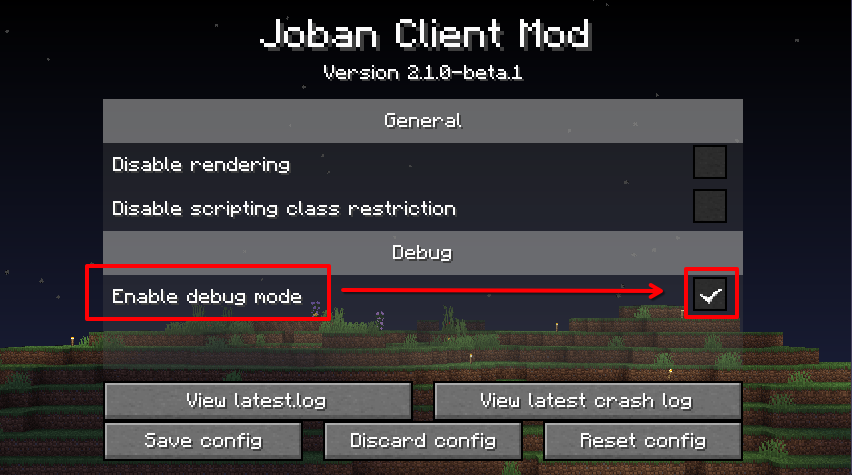
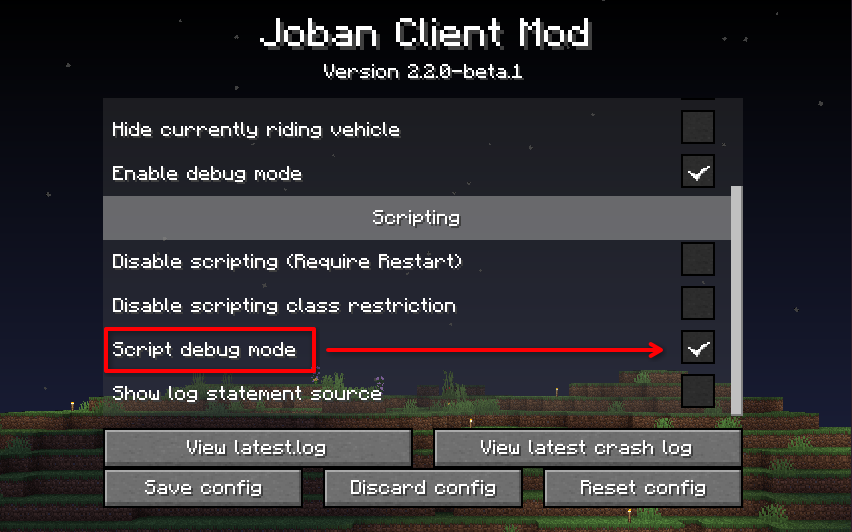
even more docs (im still tired)

diff --git a/docs/stylesheets/custom-layout.css b/docs/stylesheets/custom-layout.css
@@ -69,3 +69,7 @@
   line-height: 1;
   content: attr(data-count);
 }
+
+article a {
+    text-decoration: underline;
+}

diff --git a/docs/dev/scripting/articles/nte_migration.md b/docs/dev/scripting/articles/nte_migration.md
@@ -1,25 +1,41 @@
 ## Background
-The **[Nemo Transit Expansion](https://modrinth.com/mod/mtr-nte)** is an addon mod for the Minecraft Transit Railway 3.x version, which adds high performance OBJ rendering as well as scripting ability. While the former is merged into MTR 4.x, the latter is not. The scripting ability in JCM *can be considered* as the successor to NTE's scripting ability, inheriting the same script engine (Rhino) and design paradigm for it's API.
+The **[Nemo Transit Expansion](https://modrinth.com/mod/mtr-nte)** is an addon mod for the Minecraft Transit Railway 3.x version, which adds high performance OBJ rendering as well as JS scripting for trains and decoration object. While the former feature is merged into MTR 4.x, the scripting feature remained a gap in MTR 4.
 
-The end goal is for the scripting feature to be made available for MTR 4's Vehicle and Eyecandy, while allowing other form of scripting to added by addon mods.
+JCM Scripting is an attempt at re-implementing the NTE scripting functionality, inheriting the same script engine (Rhino) and design paradigm for it's API.
 
-## Note on backward compatibility
-!!! warning "Important!"
+## Backward compatibility policy with NTE
+!!! warning inline end "Important!"
     This policy does not apply to any NTE derivative fork, such as ANTE (Aphrodite's Nemo's Transit Expansion).  
     For ANTE specifically, see [Migrating from ANTE](#migrating-from-ante)
 
 Backward compatibility with NTE scripts are made on a best-effort basis, in the sense that we won't go out of our way to intentionally break existing scripts, and we will add stub/redirect methods to retain existing script compatibility. However if a major redesign has occured for reasons outside of our variable (e.g. Internal workings of MTR 4), we are not able to provide full backward compatibility for scripts.
 
-## General (All types of scripting)
-### Registrations
-- Both `mtr_custom_resources.json` and `mtr_custom_resources_pending_migration.json` will be parsed for scripts. (In both MTR 3/MTR 4 format)
-- Eyecandy scripts registered in NTE format are also automatically parsed.
+## Compatibility Overview
+### Registration
+- Both `mtr_custom_resources.json` and `mtr_custom_resources_pending_migration.json`, in both MTR 3 and MTR 4 format is supported.
+- Eyecandy scripts registered in the old NTE format are also supported.
+### API
+- Most if not all functions/methods provided by NTE should continue working as-is.
+    - Known Exception: `VehicleScriptContext.drawConnModel` / `VehicleScriptContext.drawConnStretchTexture` has not been re-added yet due to low demand.
+- `DisplayHelper` is implemented, most DisplayHelper scripts should work out of the box without any issue.
+- `DynamicModelHolder` is implemented.
+- Partial misc. functions from ANTE has been added, though without backward compatibility. (New API)
+- **(Important!)** Code accessing MTR 3's internal code may break. (e.g. Most common one being `route.lightRailRouteNumber` not being in MTR 4 anymore, causing instances of "undefined" in route displays.)
+### Give me some statistics...
+!!! note inline end "Take this with a grain of salt"
+    - Test conducted in Apr 2026, before the first beta release of JCM v2.2.
+    - Only versions with NTE Scripting are picked for the test, even if an updated version for MTR 4 is available.
+    - Content enlisted in MTR Content DB is not representative of the work of the wider MTR community, who may choose to publish their work in other platform.
+    - To prevent non-faithful comparisons between packs, the tested packs will not be listed out.
 
-### DisplayHelper
-Backward compatibility for DisplayHelper (`mtrsteamloco:scripts/display_helper.js`) has been added, and should just work out of the box without any changes.
+- **23** NTE (non-ANTE) packs from [MTR Content DB](https://addons.minecrafttransitrailway.com/) were tested against JCM Scripting, with the pack being unmodified.
+    - **8 (~34%)** packs are able to work without any issue.
+    - **6 (~26%)** packs are able to function, with minor issues. (Such as light rail route not showing)
+    - **5 (~22%)** packs errored out during execution, requiring some level of migration by script developers.
+    - **2 (~8%)** packs are heavily reliant on MTR 3's feature.
+    - **2 (~8%)** packs are unloadable in MTR 4, thus scripting functionalities cannot be tested.
 
-## Eyecandy Migration
-### Feasibility of migrating
+## Migration Checklist
 Before continuing with the migration process, it is important to understand whether your script will have any chance of migrating to MTR 4 in the first place.
 
 Listed below are several situations in which it may become a potential roadblocker to migrate your script to MTR 4.  
@@ -47,7 +63,7 @@ If you managed to get pass all questions, it likely means that your script have 
 
 ??? note "My script utilize advanced model processing techniques (RawMeshBuilder / MaterialProperties / VertArrays etc.)"
     - Unfortunately these features aren't available in JCM at the moment.  
-    RawMeshBuilder may become available in the future, however there is no plan for other classes. Please try working around them with the existing NTE model API.
+    RawMeshBuilder may become available in the future, however there is no plan for other deeper classes like accessing MaterialProperties / VertArrays. Please try working around them with the existing NTE model API.
 
 ??? note "My script make use of the BVE CSV/OpenBVE Animated models."
     You need to migrate to the OBJ model format as CSV/Animated are not supported in MTR 4.
@@ -58,45 +74,14 @@ If you managed to get pass all questions, it likely means that your script have 
     - For MTRClientData in MTR 4, see [MinecraftClientData](https://github.com/Minecraft-Transit-Railway/Minecraft-Transit-Railway/blob/master/fabric/src/main/java/org/mtr/mod/client/MinecraftClientData.java).
     - For `Route.lightRailRouteNumber`, they are no longer transferred as part of the route. Please see [VehicleExtraData](../tsc.md#vehicleextradata-stops-related) to obtain them.
 
-### Eyecandy Script Registration
-Existing NTE eyecandy registration will continue to work. (`scriptFiles`/`scriptTexts` within an NTE eyecandy json).
+Got through all of them? Great, below are some resources/tips to get started:
 
-If you wish to migrate to the new MTR 4 format however, please note that there are some slight difference in registration, see below for comparisons:
-
-=== "NTE Eyecandy JSON"
-    ```json hl_lines="4-5" title="example.json" linenums="1"
-    {
-        "psd_door": {
-            "name": "Platform Screen Door (TML)",
-            "scriptTexts": ["const targetPlat = \"auto\""],
-            "scriptFiles": ["mtr:custom_directory/js/eyecandy/psd/door.js"]
-        }
-    }
-    ```
-
-=== "MTR 4 Custom Resources"
-    ```json title="mtr_custom_resources.json" hl_lines="7 10-16" linenums="1"
-    {
-        ...
-        "objects": [
-            {
-                "id": "psd_door",
-                "name": "Platform Screen Door (TML)",
-                "scriptId": "psd_door"
-            }
-        ],
-        "objectScripts": [
-            {
-                "id": "psd_door",
-                "prependExpressions": ["const targetPlat = \"auto\""],
-                "scriptLocations": ["mtr:custom_directory/js/eyecandy/psd/door.js"]
-            }
-        ]
-    }
-    ```
-
-## Vehicle Migration
-To be done...
+- Try your scripted resource pack in MTR 4 w/ JCM, enable [Script Debug Overlay](../aids/script_debug_overlay.md), and see which part it errors out, or if it works at all!
+- Confused on the equivalent of `Station` and `Route` object in MTR 4? See the [Transport Simulation Core](../tsc.md) page for a type listing.
+    - <sub>Note: Due to some irresistable force, Rhino is able to read protected fields for these types. Stuff such as `Station.name` will work, which incidentally make a lot of scripts compatible. Not implying it's a good practice to rely on it however...</sub>
+- Data fetching mechanism is changed (Affecting `MTRClientData` and other scripts relying on client data). Please see [Data Obtaining / Fetching](../type/vehicle/index.md#data-obtaining-fetching) for more details.
+- [Through conditional logic, you can support both MTR 3/NTE and MTR 4/JCM!](./mtr34scripts.md)
+- [The NTE F3+5 quick reload is now Ctrl+R](../aids/script_quick_reload.md)
 
 ## Migrating from ANTE
 **[Aphrodite's Nemo's Transit Expansion](https://modrinth.com/mod/mtr-ante)** (ANTE) is a fork of the Nemo Transit Expansion, which brings several new features such as rail tilting and some new scripting abilities.

diff --git a/docs/dev/scripting/tsc.md b/docs/dev/scripting/tsc.md
@@ -142,7 +142,7 @@ Equivalent to a stop the train will make.
 ### Route.CircularState
 
 !!! info inline end "References"
-    - [Class Reference](https://github.com/Minecraft-Transit-Railway/Transport-Simulation-Core/blob/3432a3a6ceb5a817c7a5bb9a1bebfc963dab1076/src/main/java/org/mtr/core/data/Route.java#L124)
+    - [Class Reference](https://github.com/Minecraft-Transit-Railway/Transport-Simulation-Core/blob/master/src/main/java/org/mtr/core/data/Route.java#L124)
 
 Represents a circular state of a route.
 
@@ -154,7 +154,7 @@ Represents a circular state of a route.
 
 ### Vehicle
 !!! info inline end "References"
-    - [Class Reference](https://github.com/Minecraft-Transit-Railway/Transport-Simulation-Core/blob/3432a3a6ceb5a817c7a5bb9a1bebfc963dab1076/src/main/java/org/mtr/core/data/Vehicle.java)
+    - [Class Reference](https://github.com/Minecraft-Transit-Railway/Transport-Simulation-Core/blob/master/src/main/java/org/mtr/core/data/Vehicle.java)
     - [Schema Reference](https://github.com/Minecraft-Transit-Railway/Transport-Simulation-Core/blob/master/buildSrc/src/main/resources/schema/data/vehicle.json)
 
 A vehicle formation / consists.
@@ -166,7 +166,7 @@ A vehicle formation / consists.
 
 ### VehicleExtraData
 !!! info inline end "References"
-    - [Class Reference](https://github.com/Minecraft-Transit-Railway/Transport-Simulation-Core/blob/3432a3a6ceb5a817c7a5bb9a1bebfc963dab1076/src/main/java/org/mtr/core/data/Vehicle.java)
+    - [Class Reference](https://github.com/Minecraft-Transit-Railway/Transport-Simulation-Core/blob/master/src/main/java/org/mtr/core/data/Vehicle.java)
     - [Schema Reference](https://github.com/Minecraft-Transit-Railway/Transport-Simulation-Core/blob/master/buildSrc/src/main/resources/schema/data/vehicle.json)
 
 Represents real-time data of a vehicle.
@@ -204,7 +204,7 @@ Equivalent function exists for:
 
 ### RouteType
 !!! info inline end "References"
-    - [Class Reference](https://github.com/Minecraft-Transit-Railway/Transport-Simulation-Core/blob/3432a3a6ceb5a817c7a5bb9a1bebfc963dab1076/src/main/java/org/mtr/core/data/RouteType.java)
+    - [Class Reference](https://github.com/Minecraft-Transit-Railway/Transport-Simulation-Core/blob/master/src/main/java/org/mtr/core/data/RouteType.java)
 
 Represents the type of route.
 
@@ -213,6 +213,40 @@ Represents the type of route.
 |`static RouteType.NORMAL: RouteType`|Normal Heavy Rail route.|
 |`static RouteType.LIGHT_RAIL: RouteType`|A light rail route.|
 |`static RouteType.HIGH_SPEED: RouteType`|A high speed rail route.|
+
+### PathData
+!!! info inline end "References"
+    - [Class Reference](https://github.com/Minecraft-Transit-Railway/Transport-Simulation-Core/blob/master/src/main/java/org/mtr/core/data/PathData.java)
+    - [Schema Reference](https://github.com/Minecraft-Transit-Railway/Transport-Simulation-Core/blob/master/buildSrc/src/main/resources/schema/data/pathData.json)
+
+Represents 1 section (i.e. 1 rail) of a generated path.
+
+|Functions And Objects|Description|
+|:--------------------|:----------|
+|`PathData.getStartDistance(): double`|Returns the starting distance of the path. You can compare that with vehicle's railProgress.|
+|`PathData.getEndDistance(): double`|Returns the ending distance of the path. You can compare that with vehicle's railProgress.|
+|`PathData.getRail(): Rail`|Returns the [Rail](#rail) this path is for.|
+|`PathData.getOrderedPosition1(): Position`|Returns a [Position](#position) representing the starting position in the world.|
+|`PathData.getOrderedPosition2(): Position`|Returns a [Position](#position) representing the ending position in the world.|
+|`PathData.isSameRail(other: PathData): boolean`|Returns if a `PathData` is equivalent. (In terms of starting & ending position)|
+|`PathData.isOppositeRail(other: PathData): boolean`|Returns true if another `PathData` is a reversed version of the current path data. (e.g. For vehicle reversal/turnback, there may be 1 path representing the forward direction, and 1 path going in reverse, but they share the same piece of rail.)|
+|`PathData.getSpeedLimitKilometersPerHour(): long`|Returns the speed limit of this rail in km/h.|
+|`PathData.getRailLength(): double`|Returns the length of the path in meters.|
+|`PathData.isDescending(): boolean`|Returns true if the ending Y position is lower than the starting Y position.|
+|`PathData.getDwellTime(): long`|Returns the dwell time for this path in millisecond.<br>Values higher than 0 indcates the vehicle should stop and open the door.|
+
+### Rail
+!!! info inline end "References"
+    - [Class Reference](https://github.com/Minecraft-Transit-Railway/Transport-Simulation-Core/blob/master/src/main/java/org/mtr/core/data/Rail.java)
+    - [Schema Reference](https://github.com/Minecraft-Transit-Railway/Transport-Simulation-Core/blob/master/buildSrc/src/main/resources/schema/data/rail.json)
+Represents a single rail section. (Node to Node)
+
+|Functions And Objects|Description|
+|:--------------------|:----------|
+|`Rail.getTransportMode(): TransportMode`|Returns the type of [TransportMode](#transportmode) this rail is for.|
+|`Rail.getStyles(): List<String>`|Returns a list of rail model ids (a.k.a. styles) applied to this rail.|
+|`Rail.canAccelerate(): boolean`|Returns whether the train can accelerate to the rail's speed limit, or should it hold the current speed.<br>False if it's a platform or a turnback rail.|
+
 
 ### Vector
 !!! info inline end "References"

diff --git a/docs/dev/scripting/type/vehicle/index.md b/docs/dev/scripting/type/vehicle/index.md
@@ -176,7 +176,7 @@ Represents a vehicle / trainset / train consist.
 |`Vehicle.getThisRouteStops(): List<Stop>`|Get a list of [Stop](#stop) the vehicle will make for the current running route.|
 |`Vehicle.getNextRouteStops(): List<Stop>`|Get a list of [Stop](#stop) the vehicle will make for the upcoming route.|
 |`Vehicle.getNextStopIndex(stopList: List<Stop>, overrunTolerance: double = 0.5): int`|Get the index of the next stop within a `stopList`. (Can be obtained above).<br>`overrunTolerance` is the tolerance in meters in which the next stop will still be counted as the previous stop, even after overruning the stop mark.<br>Returns `stopList.size()` if vehicle already passed all stops in the given `stopList`.|
-|`Vehicle.isStopsDataFetched(): boolean`| Whether the stop data is fetched from the server (Instead of being compiled locally).<br>i.e. Always false if data fetch mode is set to `NONE`.|
+|`Vehicle.isStopsDataFetched(): boolean`| Whether the stop data is fetched from the server (Instead of being compiled locally).<br>i.e. Always false if data fetch mode is set to `SKIP`.|
 |`Vehicle.isRendered(): boolean`|Returns whether any car is being rendered. (i.e. Not being culled by MTR)|
 |`Vehicle.isCarRendered(cars: int...): boolean`|Returns whether any of the given car index is being rendered.|
 |`Vehicle.isClientPlayerRiding(): boolean`|Returns whether the client player is riding (onboard) the current vehicle.|

diff --git a/docs/players/features/mtr-patch.md b/docs/players/features/mtr-patch.md
@@ -13,6 +13,7 @@ The current patch set includes:
 - Fix MTR 4 not recognizing legacy NTE object's `translation`, `rotation`, `scale` and `mirror` fields in resource packs.
 
 ## User Interface / UX
+### Car auto-fill
 For vehicles sets/families formatted appropriately, you may now hold the `SHIFT` key when adding vehicles in Siding to automatically fill out the entire siding length.  
 (Formation: Cab Front - N number of car trailers - Cab End)
 
@@ -20,4 +21,10 @@ For vehicles sets/families formatted appropriately, you may now hold the `SHIFT`
 
 The vehicle id must end in `_cab_1` (Front), `_cab_2` (Back) and `_trailer` (Car trailer) for this feature to be used. Most MTR built-in vehicles follow this rule.
 
-The above changes are applied once JCM is installed.
+### Hide rail rendering
+For debugging purposes and easier discovery of blocks beneath rails, you can now turn off rail rendering completely in JCM's settings.  
+This feature is carried over from NTE.
+
+### Hide currently-riding vehicle
+This hides the vehicle the player is currently riding, which is useful especially for cab-view video without the obstruction of the train model.  
+This feature is carried over from NTE.

diff --git a/docs/dev/scripting/model.md b/docs/dev/scripting/model.md
@@ -60,7 +60,10 @@ However texture replacing operation is still possible.
 |`Model.close(): void`|Close this Model instance and free-up resources.|
 
 ### Rendering
-You can construct a [ModelDrawCall](./rendering.md#modeldrawcall), and pass the uploaded model as a parameter to `.modelObject`.
+You may either:
+
+- Construct a [ModelDrawCall](./rendering.md#modeldrawcall), and pass the uploaded model as a parameter to `.modelObject` and use [RenderManager](./rendering.md#rendermanager) to render it out.
+- Or pass in the model to the draw model functions in [VehicleScriptContext](./type/vehicle/index.md#vehiclescriptcontext) and [EyecandyScriptContext](./type/eyecandy/index.md#eyecandyscriptcontext)
 
 ## DynamicModelHolder
 The `ModelManager.upload()` can only be invoked when it is executed in the render thread, which is true during the initial **Loading/Parsing stage**.

diff --git a/docs/dev/scripting/index.md b/docs/dev/scripting/index.md
@@ -34,12 +34,8 @@ Here is a snippet of 2 types of script: **Eyecandy Scripting** and **PIDS Script
     const poleModel = ModelManager.upload(poleModelData);
 
     function render(ctx, state, blockEyecandy) {
-        // Define draw call to submit
-        let modelDrawCall = ModelDrawCall.create()
-            .modelObject(poleModel)
-
         // Render pole model
-        ctx.getRenderManager().queue(modelDrawCall);
+        ctx.drawModel(poleModel, null);
     }
     ```
 

diff --git a/docs/dev/scripting/aids/script_quick_reload.md b/docs/dev/scripting/aids/script_quick_reload.md
@@ -6,7 +6,7 @@ To aid development time, **JCM v2.1.2** introduced a new quick reload feature wh
 
 ### Enable quick reload
 Go to **Mod Menu** / **Mod Config Screen** (Forge), find JCM and click on **Configure**.  
-After that, make sure the **Enable Script Debug mode** checkbox is checked, then click **Save Config**.
+After that, make sure the **Script debug mode** checkbox is checked, then click **Save Config**.
 
 ![](./img/enable_overlay.png)
 

diff --git a/docs/dev/scripting/aids/script_debug_overlay.md b/docs/dev/scripting/aids/script_debug_overlay.md
@@ -6,7 +6,7 @@ To better visualize errors and performance of your script, you can turn on Scrip
 
 ### Enable the overlay
 Go to **Mod Menu** / **Mod Config Screen** (Forge), find JCM and click on **Configure**.  
-After that, make sure the **Enable Script Debug mode** checkbox is checked, then click **Save Config**.
+After that, make sure the **Script debug mode** checkbox is checked, then click **Save Config**.
 
 ![](./img/enable_overlay.png)
 

diff --git a/docs/dev/scripting/rendering.md b/docs/dev/scripting/rendering.md
@@ -53,7 +53,7 @@ function render(ctx, state, eyecandy) {
 ```
 
 ### ModelDrawCall
-This creates a draw call which renders a 3d model onto the world.
+This creates a draw call which allows rendering a 3D model onto the world.
 
 |Functions|Description|
 |:--------|:----------|
